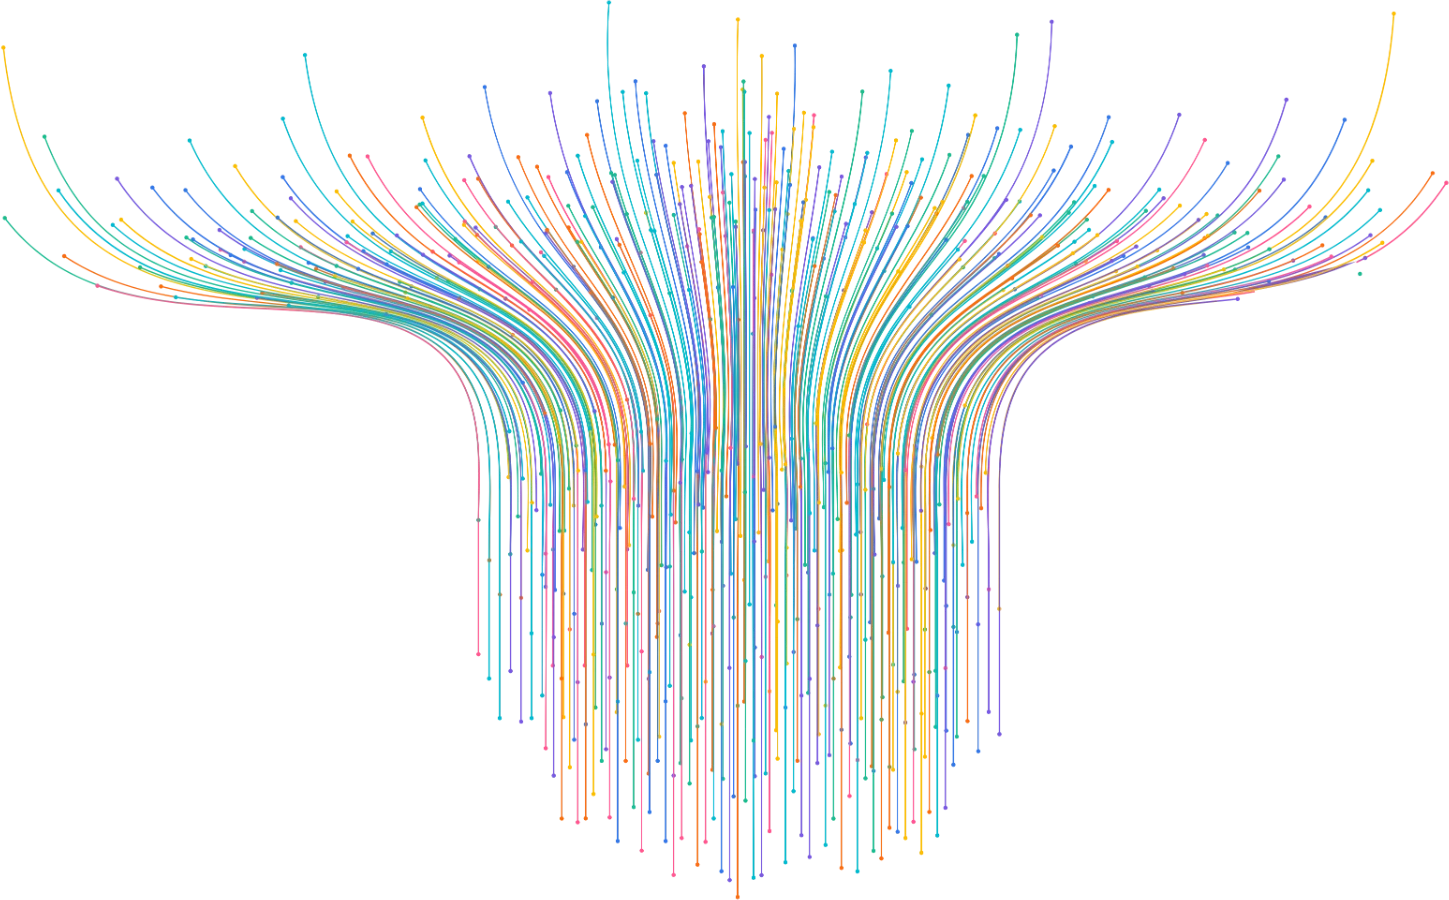
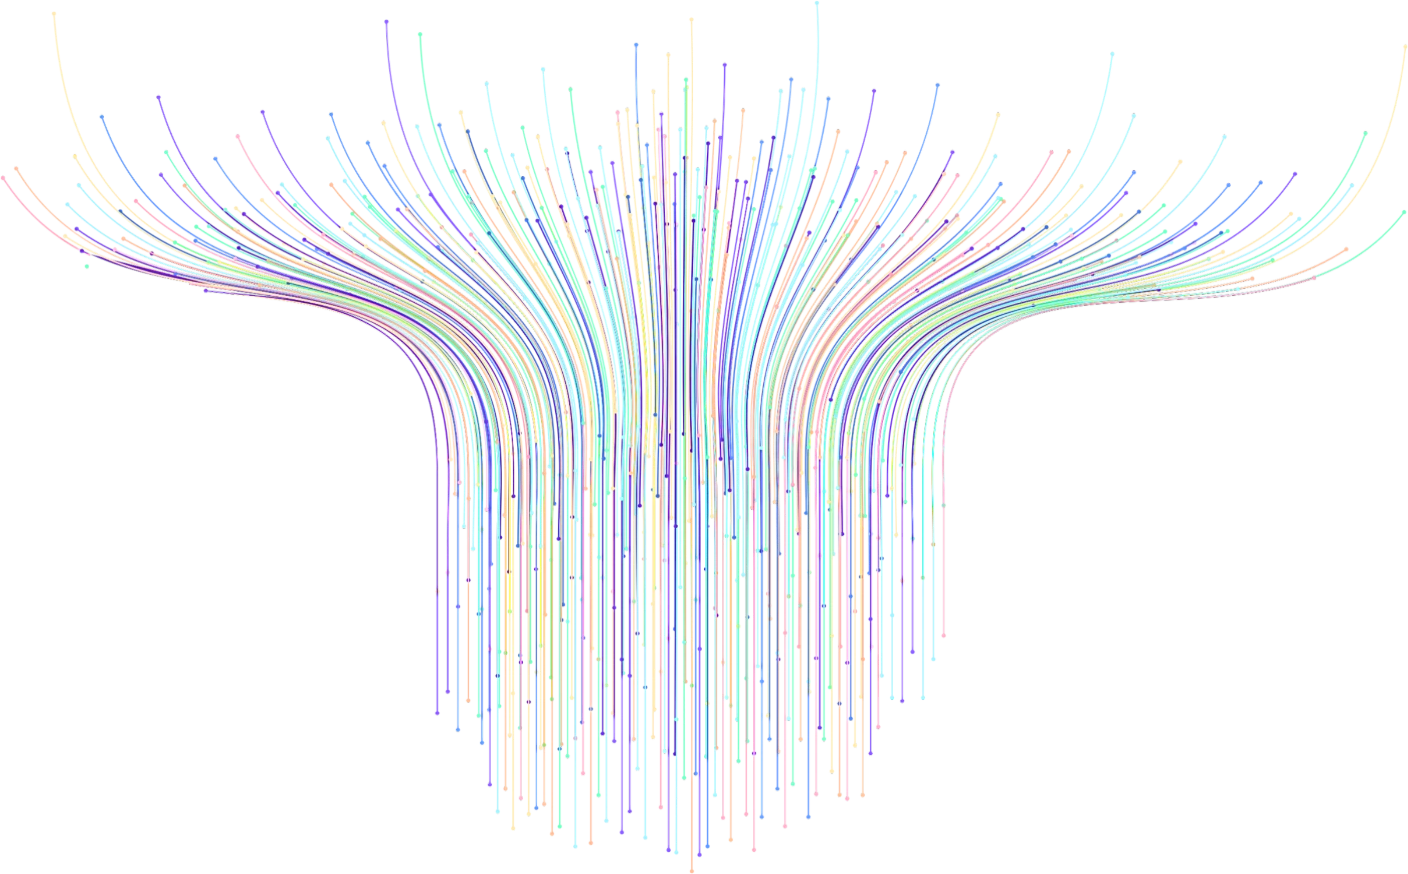
CodeWaterfall: drop all animation, use new artwork, go full-hero
Owner call: no flow/glyph animation, no small bounded "cover" box --
just the static reference art (replaced with a newer export, same
processing: real alpha from source, cropped to content bbox), filling
the whole hero section behind the logo/title/CTA.

Claude-Session: https://claude.ai/code/session_01MZAnH6CaQuirP2zdnsPUJY

Changed region(s): [[0.0, 0.0618, 1.0, 0.9886]]

diff --git a/portal/frontend/styles/theme.css b/portal/frontend/styles/theme.css
@@ -92,11 +92,9 @@ a {
 #veil {
   display: none;
 }
-/* Standalone decorative overlay — fills whatever positioned ancestor wraps
-   it, not the viewport. Whoever mounts <CodeWaterfall/> decides how big a
-   stage it gets. Base layer is the artwork itself (real alpha, no white
-   halo); the two flow layers are the same artwork used as a mask so the
-   travelling light is clipped to the actual drawn strands. */
+/* Standalone static overlay — fills whatever positioned ancestor wraps it,
+   not the viewport. Whoever mounts <CodeWaterfall/> decides how big a stage
+   it gets. No animation, per owner direction — just the artwork itself. */
 .code-waterfall {
   position: absolute;
   inset: 0;
@@ -106,67 +104,13 @@ a {
   pointer-events: none;
   z-index: 0;
 }
-.code-waterfall__base,
-.code-waterfall__flow {
+.code-waterfall__base {
   position: absolute;
   inset: 0;
-}
-.code-waterfall__base {
   background-image: url('/effects/code-waterfall.png');
   background-repeat: no-repeat;
   background-position: center;
   background-size: contain;
-  opacity: 0.6;
-}
-.code-waterfall__flow {
-  -webkit-mask-image: url('/effects/code-waterfall.png');
-  mask-image: url('/effects/code-waterfall.png');
-  -webkit-mask-repeat: no-repeat;
-  mask-repeat: no-repeat;
-  -webkit-mask-position: center;
-  mask-position: center;
-  -webkit-mask-size: contain;
-  mask-size: contain;
-  -webkit-mask-mode: alpha;
-  mask-mode: alpha;
-  mix-blend-mode: screen;
-  background-image: linear-gradient(
-    180deg,
-    transparent 0%,
-    rgba(255, 255, 255, 0.95) 8%,
-    transparent 16%
-  );
-  background-repeat: no-repeat;
-  background-size: 100% 600%;
-}
-.code-waterfall__flow--down {
-  animation: code-waterfall-down 6s linear infinite;
-}
-.code-waterfall__flow--up {
-  opacity: 0.8;
-  animation: code-waterfall-up 8s linear infinite;
-}
-@keyframes code-waterfall-down {
-  from {
-    background-position: 0 -100%;
-  }
-  to {
-    background-position: 0 500%;
-  }
-}
-@keyframes code-waterfall-up {
-  from {
-    background-position: 0 500%;
-  }
-  to {
-    background-position: 0 -100%;
-  }
-}
-@media (prefers-reduced-motion: reduce) {
-  .code-waterfall__flow {
-    animation: none;
-    display: none;
-  }
 }
 #veil::after {
   content: '';

diff --git a/portal/frontend/components/ui/code-waterfall.tsx b/portal/frontend/components/ui/code-waterfall.tsx
@@ -1,23 +1,15 @@
 /**
- * Renders the owner-provided reference artwork (public/effects/code-waterfall.png
- * — the original export's white background was stripped to real alpha at
- * processing time, with the white unmixed out of the line colors so there's
- * no halo) as a transparent overlay, plus two masked "flow" layers animated
- * as travelling light — one drifting down, one drifting up. Both flow layers
- * are clipped by the artwork's own alpha channel (mask-image), so the light
- * follows the actual drawn strands exactly — no procedural path guessing.
+ * Renders the owner-provided reference artwork (public/effects/code-waterfall.png,
+ * a transparent-background export — see the file for exact processing) as a
+ * static image. No animation, no masked flow layers: owner call.
  *
  * Standalone on purpose: it fills whatever positioned ancestor wraps it (see
- * .code-waterfall in theme.css), so a page can drop it wherever it's wanted —
- * one section, a full background, later even inside GlobalBackground —
- * without this component knowing or caring which.
+ * .code-waterfall in theme.css), so a page can drop it wherever it's wanted.
  */
 export function CodeWaterfall() {
   return (
     <div className="code-waterfall" aria-hidden="true">
       <div className="code-waterfall__base" />
-      <div className="code-waterfall__flow code-waterfall__flow--down" />
-      <div className="code-waterfall__flow code-waterfall__flow--up" />
     </div>
   );
 }
